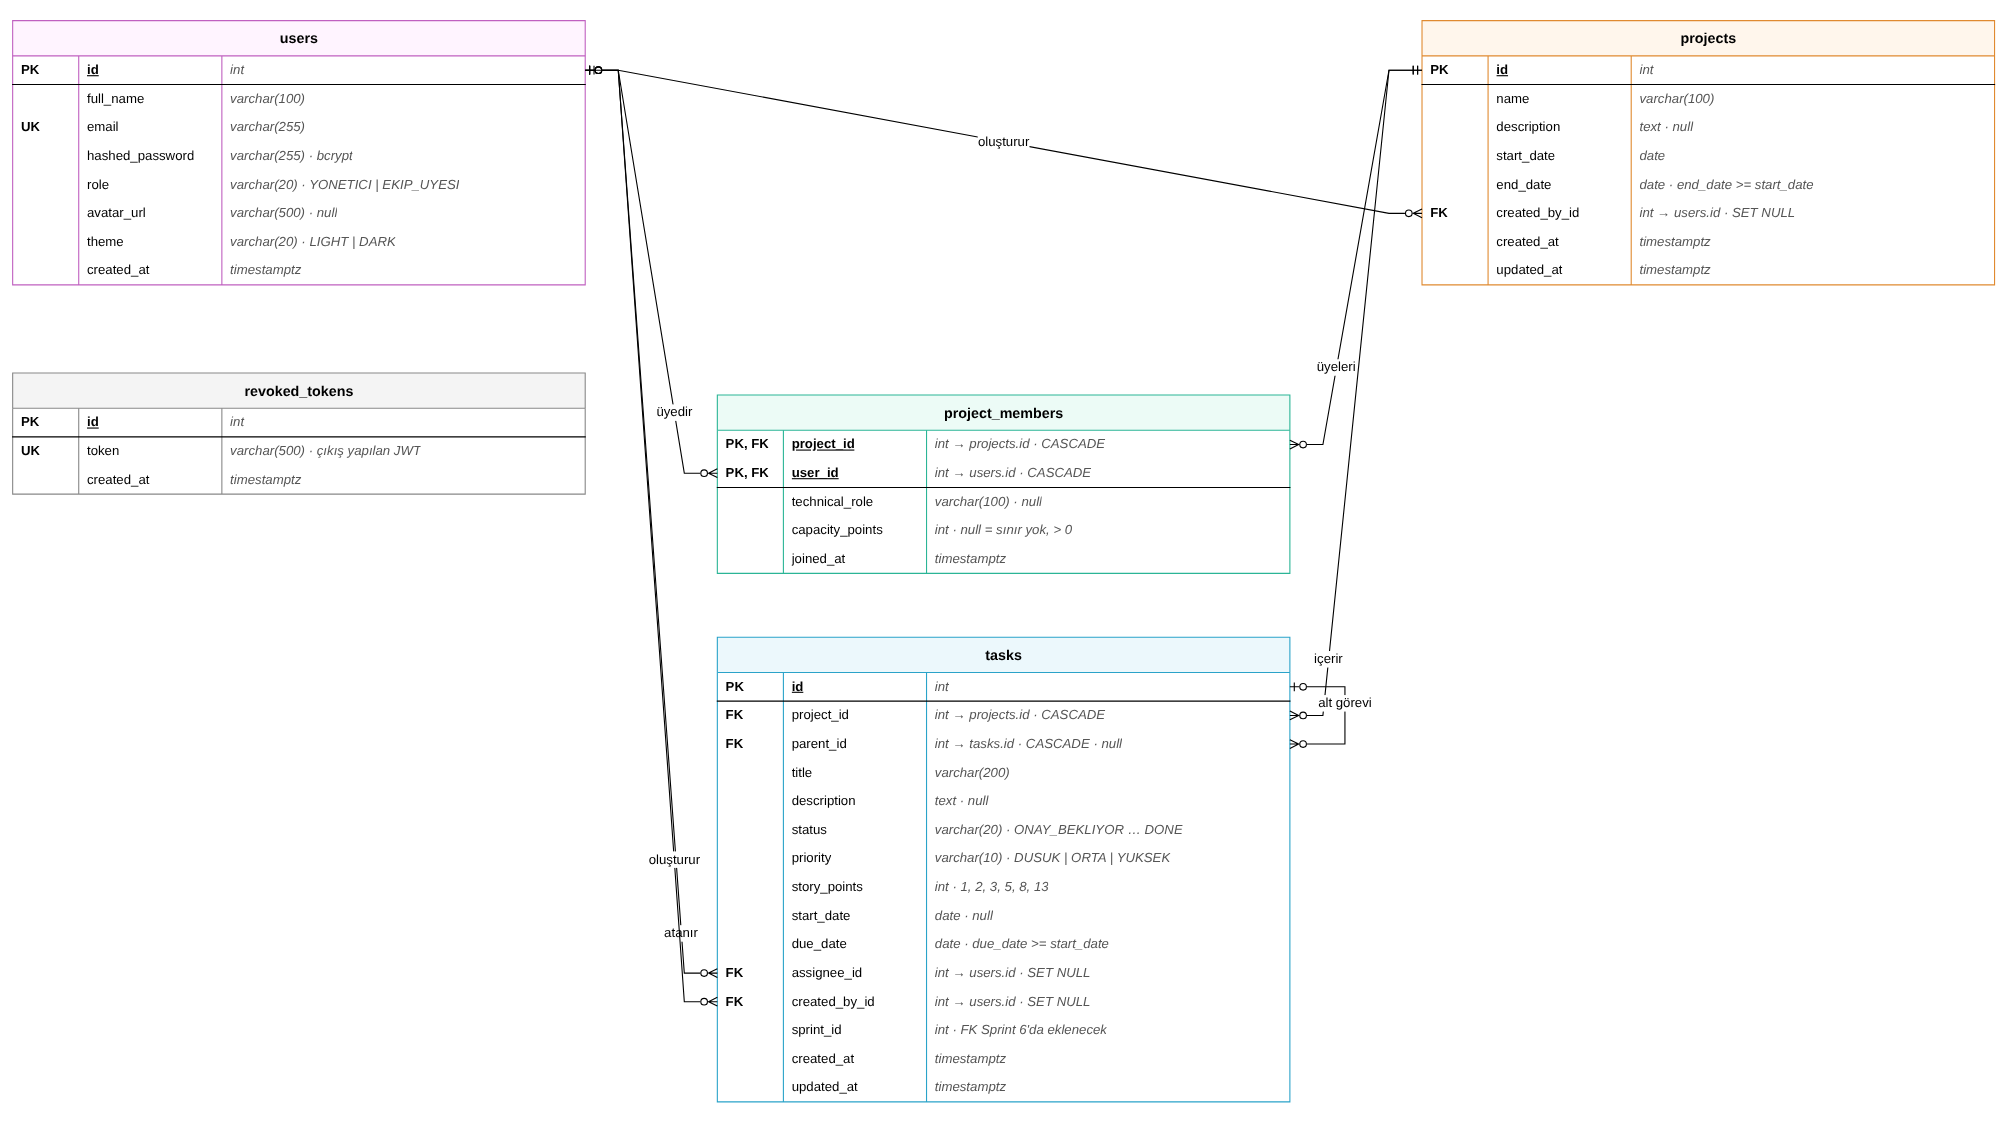
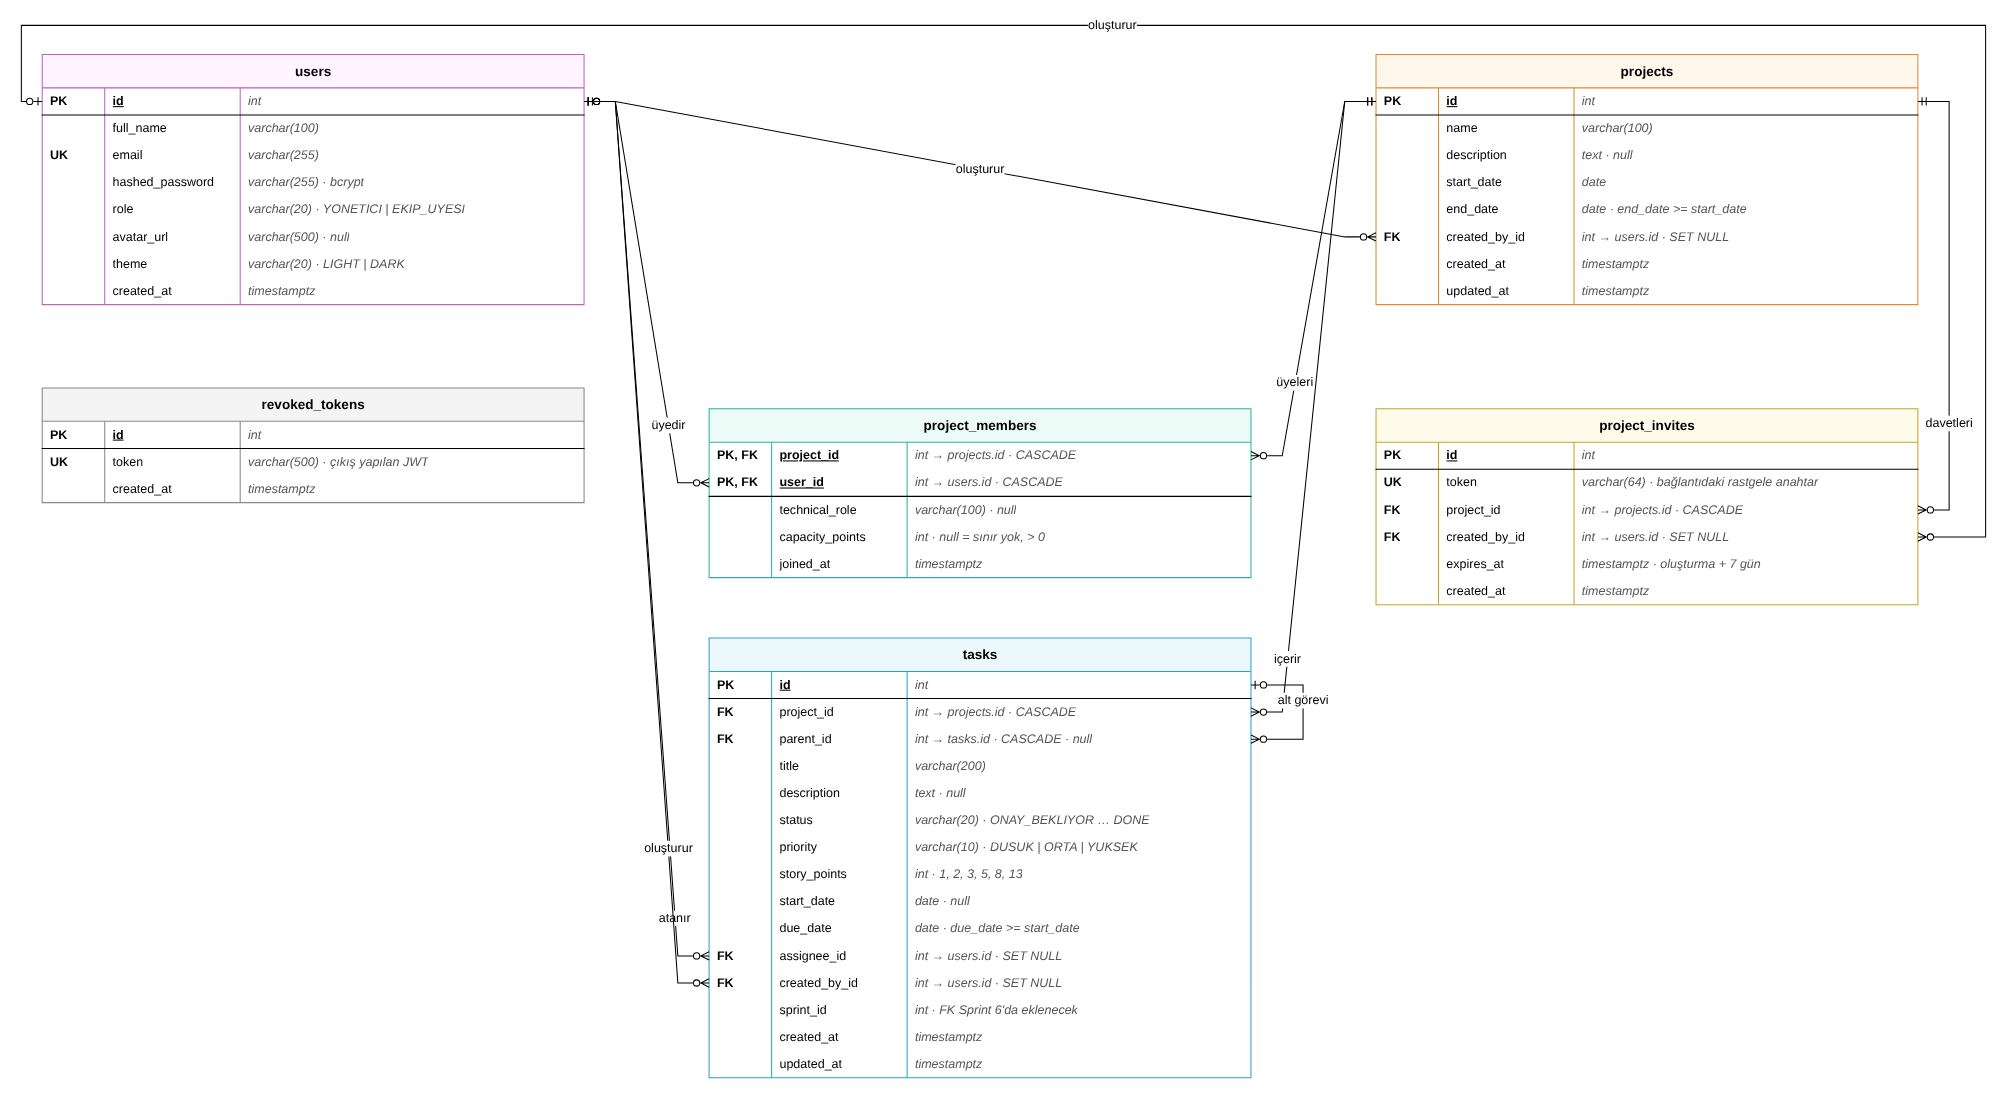
docs: ER diyagramına project_invites tablosu eklendi (#118)

diff --git a/docs/diyagramlar/er-diyagrami.md b/docs/diyagramlar/er-diyagrami.md
@@ -1,6 +1,6 @@
-# LUNO · ER Diyagramı (Sprint 2)
+# LUNO · ER Diyagramı (Sprint 3)
 
-Sprint 2–4'te kullanılacak temel tablolar: `users`, `revoked_tokens`, `projects`, `project_members`, `tasks`.
+Şu an veritabanında bulunan tablolar: `users`, `revoked_tokens`, `projects`, `project_members`, `project_invites`, `tasks`.
 Kaynak: API Sözleşmesi v1.1, bölüm 2 (Veri nesneleri). Model kodu: `backend/app/models/`.
 
 ![ER diyagramı](er-diyagrami.png)
@@ -15,6 +15,7 @@ Düzenlenebilir kaynak: [`er-diyagrami.drawio`](er-diyagrami.drawio) (draw.io / 
 | `revoked_tokens` | `app/models/user.py` (Esra, US-003) | Çıkış yapılmış JWT'ler |
 | `projects` | `app/models/project.py` | Projeler |
 | `project_members` | `app/models/project_member.py` | Proje üyelikleri, teknik rol ve kapasite |
+| `project_invites` | `app/models/project_invite.py` (Esra, US-010) | Projeye davet bağlantıları (migration `0002`) |
 | `tasks` | `app/models/task.py` | Görevler ve alt görevler |
 
 ## Kurallar
@@ -25,12 +26,13 @@ Düzenlenebilir kaynak: [`er-diyagrami.drawio`](er-diyagrami.drawio) (draw.io / 
 | Yeni kullanıcı `EKIP_UYESI` | `users.role` varsayılan değer | FR-010 |
 | Şifreler düz metin değil, bcrypt hash olarak saklanır | `users.hashed_password` | NFR-001 |
 | Bir kişi bir projeye bir kez üye olur | `project_members` birleşik PK | — |
+| Davet bağlantısı benzersiz ve 7 gün geçerli | `project_invites.token` unique index, `expires_at` | FR-021, sözleşme 5.8 |
 | Proje bitişi başlangıçtan önce olamaz | `projects` check kısıtı | FR-016 |
 | Teslim tarihi başlangıçtan önce olamaz | `tasks` check kısıtı | FR-025 |
 | Görev durumu ve önceliği yalnızca tanımlı değerler | `tasks` check kısıtları | Sözleşme 1.3 |
 | Efor puanı 1, 2, 3, 5, 8, 13 | `tasks` check kısıtı | FR-036 |
 | Kapasite boşsa sınır yok, doluysa > 0 | `project_members` check kısıtı | FR-074, FR-075 |
-| Proje silinince görevleri ve üyelikleri silinir | `ON DELETE CASCADE` + ORM cascade | FR-020 |
+| Proje silinince görevleri, üyelikleri ve davetleri silinir | `ON DELETE CASCADE` + ORM cascade | FR-020 |
 | Ana görev silinince alt görevleri silinir | `tasks.parent_id ON DELETE CASCADE` + ORM cascade | Sözleşme 6.7 |
 | Atanan kişi silinince görev atamasız kalır | `tasks.assignee_id ON DELETE SET NULL` | Sözleşme 5.10 |
 | Şema değişiklikleri yalnızca Alembic migration ile yapılır | `backend/alembic/versions/` | NFR-018 |
@@ -49,12 +51,13 @@ Durum ve öncelik, `users.role` ile aynı şekilde metin (`varchar`) olarak sakl
 - Alt görevin alt görevi olamaz (6.10, `NESTED_SUBTASK_NOT_ALLOWED`).
 - Atanan kişi projenin üyesi olmalı (6.2, `ASSIGNEE_NOT_MEMBER`).
 - Üye projeden çıkarılınca o projedeki görevlerinin `assignee_id`'si `null` yapılır (5.10).
+- Alt görevin `project_id`'si ana görevinkiyle aynı olmalı (veritabanı bunu engellemez).
+- Daveti kabul ederken süresi dolmuş bağlantı reddedilir (`expires_at`, 5.9 `INVITE_INVALID`); zaten üye olan kullanıcı `ALREADY_MEMBER` alır.
 
 ## Sonraki sprintlerde eklenecek tablolar
 
 | Tablo | Sprint | Not |
 |---|---|---|
-| `project_invites` | 3 | Davet bağlantıları (FR-021) |
 | `labels`, `task_labels` | 4 | Etiketler (FR-037) |
 | `files`, `comments` | 5 | Dosya ve yorumlar (FR-046 – FR-050) |
 | `notifications` | 6 | Bildirimler (FR-051) |
